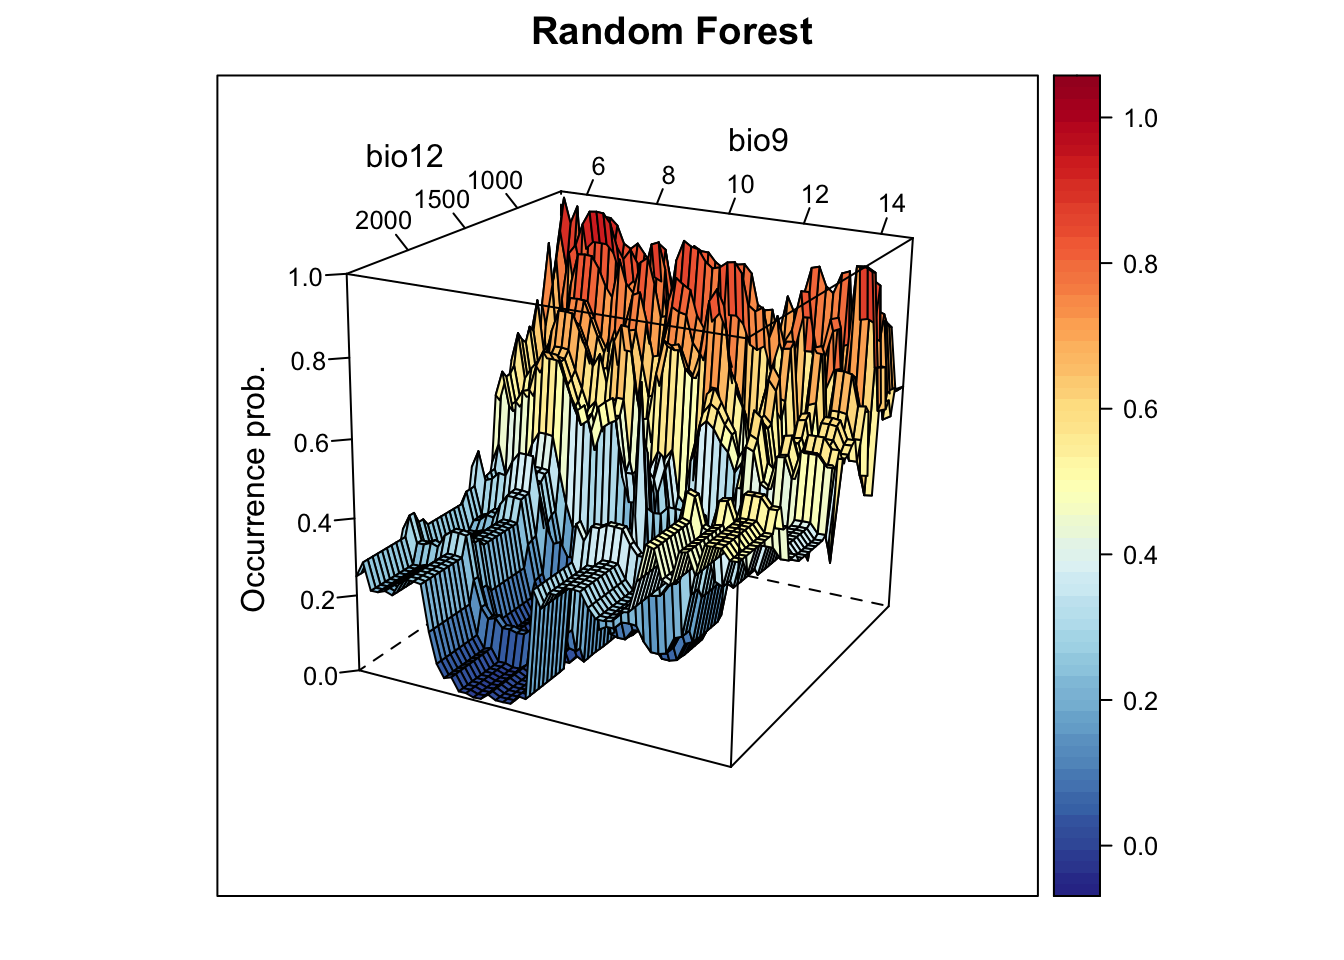
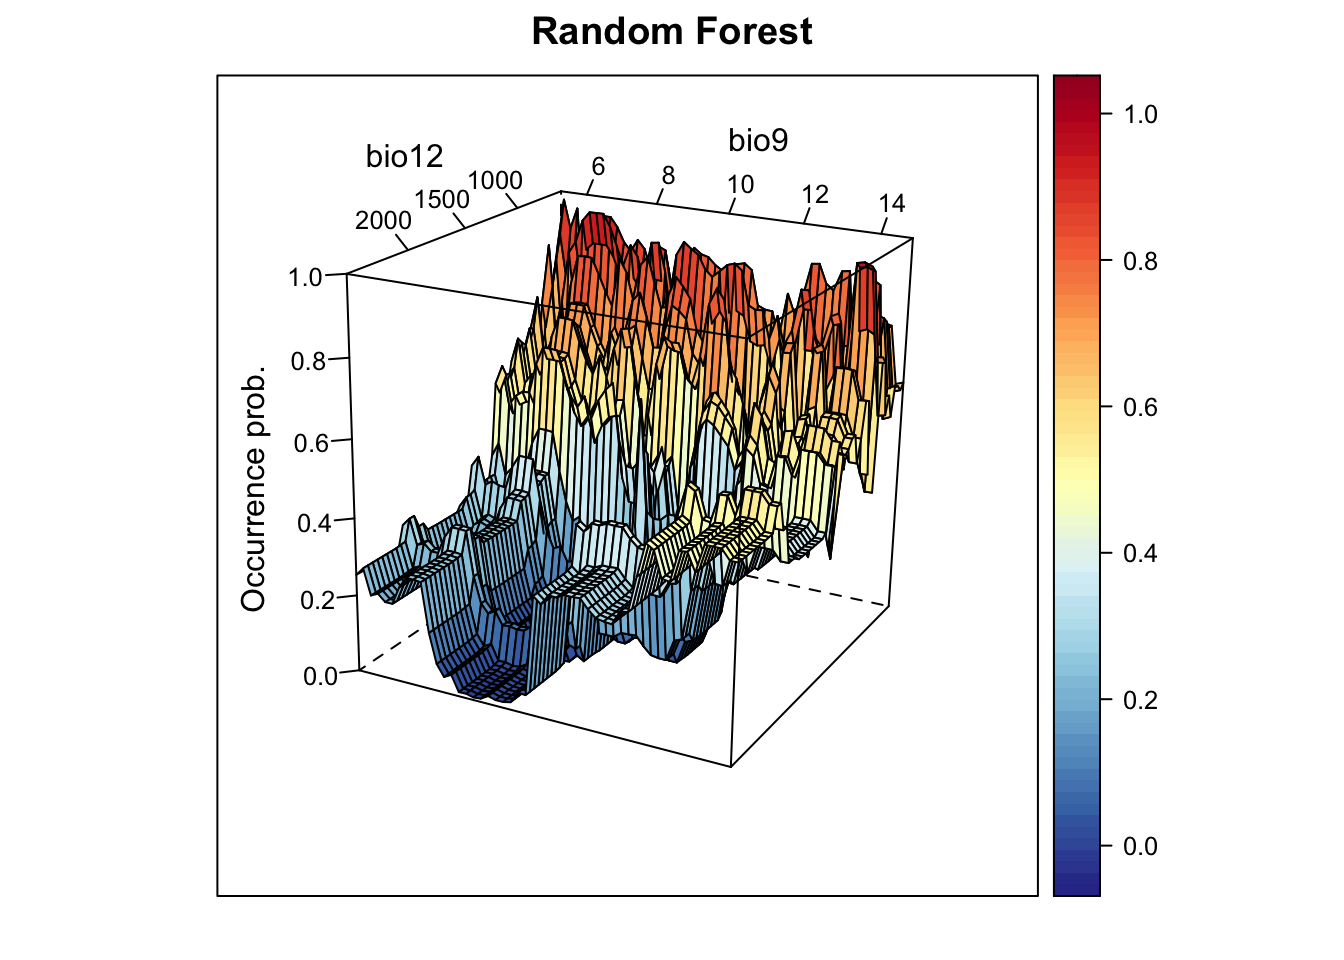
minor update

diff --git a/b6_SDM_algorithms.html b/b6_SDM_algorithms.html
@@ -13,7 +13,7 @@
 
 <title>SDM algorithms</title>
 
-<script src="site_libs/header-attrs-2.17/header-attrs.js"></script>
+<script src="site_libs/header-attrs-2.19/header-attrs.js"></script>
 <script src="site_libs/jquery-3.6.0/jquery-3.6.0.min.js"></script>
 <meta name="viewport" content="width=device-width, initial-scale=1" />
 <link href="site_libs/bootstrap-3.3.5/css/bootstrap.min.css" rel="stylesheet" />
@@ -555,7 +555,7 @@ and 1, indicating how similar/close the environmental conditions are to
 the median conditions.</p>
 <pre class="r"><code>library(dismo)
 
-# Fit BIOCLIM model - please note that biolcim() expects a Raster* rather than SpatRaster object
+# Fit BIOCLIM model - please note that bioclim() expects a Raster* rather than SpatRaster object
 m_bc &lt;- dismo::bioclim(stack(bio_curr[[my_preds]]), 
                 sp_train[sp_train$Emberiza_citrinella==1,c(&#39;EASTING&#39;,&#39;NORTHING&#39;)])
 plot(m_bc)</code></pre>
@@ -877,26 +877,26 @@ permutation procedure, which measures for each variable the drop in mean
 accuracy when this variables is permutated.</p>
 <pre class="r"><code>library(randomForest)
 
-# Fit RF
+# Fit RF (a question/warning pops up whether we really want to do regression: YES, we want to. With binary data, you could also use classification by setting the argument y=as.factor(sp_train$Emberiza_citrinella) but from experience regression produces slightly better results)
 m_rf &lt;- randomForest( x=sp_train[,my_preds], y=sp_train$Emberiza_citrinella, 
     ntree=1000, importance =T)
     
 # Variable importance:
 importance(m_rf,type=1)</code></pre>
 <pre><code>##        %IncMSE
-## bio12 68.05580
-## bio9  15.55716</code></pre>
+## bio12 68.94642
+## bio9  14.02256</code></pre>
 <pre class="r"><code>varImpPlot(m_rf)</code></pre>
 <p><img src="b6_SDM_algorithms_files/figure-html/unnamed-chunk-15-1.png" width="672" /></p>
 <pre class="r"><code># Look at single trees:
 head(getTree(m_rf,1,T))</code></pre>
 <pre><code>##   left daughter right daughter split var split point status prediction
-## 1             2              3      bio9    7.045709     -3  0.5592417
-## 2             4              5     bio12  752.727325     -3  0.8833333
-## 3             6              7     bio12 1071.290039     -3  0.4304636
-## 4             8              9      bio9    6.071526     -3  0.9107143
-## 5             0              0      &lt;NA&gt;    0.000000     -1  0.5000000
-## 6            10             11      bio9   13.934988     -3  0.7837838</code></pre>
+## 1             2              3     bio12 1072.039734     -3 0.55450237
+## 2             4              5     bio12  875.953491     -3 0.80000000
+## 3             6              7      bio9    9.857206     -3 0.16049383
+## 4             8              9     bio12  603.358917     -3 0.85576923
+## 5            10             11      bio9   11.157989     -3 0.57692308
+## 6            12             13     bio12 1259.303528     -3 0.02083333</code></pre>
 <pre class="r"><code># Now, we plot the response surface:
 xyz$z &lt;- predict(m_rf, xyz, type=&#39;response&#39;)
 wireframe(z ~ bio12 + bio9, data = xyz, zlab = list(&quot;Occurrence prob.&quot;, rot=90), 
@@ -910,8 +910,8 @@ partial_response(m_rf, predictors = sp_train[,my_preds], main=&#39;Random Forest
 <p><img src="b6_SDM_algorithms_files/figure-html/unnamed-chunk-15-3.png" width="672" /></p>
 <pre class="r"><code># Performance measures of RF
 (perf_rf &lt;- evalSDM(sp_test$Emberiza_citrinella, predict(m_rf, sp_test[,my_preds],  type=&#39;response&#39;) ))</code></pre>
-<pre><code>##        AUC       TSS     Kappa      Sens      Spec PCC         D2 thresh
-## 1 0.828869 0.6041667 0.6005917 0.8333333 0.7708333 0.8 0.09078249   0.58</code></pre>
+<pre><code>##         AUC       TSS     Kappa      Sens      Spec       PCC        D2 thresh
+## 1 0.8328373 0.6428571 0.6428571 0.8095238 0.8333333 0.8222222 0.1811933   0.63</code></pre>
 <pre class="r"><code># Map predictions:
 r_rf_bin &lt;- r_rf_pred &lt;- terra::rast(cbind(bio_curr_df[,1:2],
                                  predict(m_rf, bio_curr_df,type=&#39;response&#39;)),
@@ -991,16 +991,16 @@ m_brt &lt;- gbm.step(data = sp_train,
 <pre class="r"><code># Variable importance:
 m_brt$contributions</code></pre>
 <pre><code>##         var   rel.inf
-## bio12 bio12 93.311114
-## bio9   bio9  6.688886</code></pre>
+## bio12 bio12 93.208819
+## bio9   bio9  6.791181</code></pre>
 <pre class="r"><code># Interactions (not very meaningful here with only 2 predictors):
 gbm.interactions(m_brt)$interactions</code></pre>
 <pre><code>##       bio12  bio9
-## bio12     0 25.06
+## bio12     0 24.37
 ## bio9      0  0.00</code></pre>
 <pre class="r"><code>gbm.interactions(m_brt)$rank.list</code></pre>
 <pre><code>##   var1.index var1.names var2.index var2.names int.size
-## 1          2       bio9          1      bio12    25.06
+## 1          2       bio9          1      bio12    24.37
 ## 2          3       &lt;NA&gt;          0                0.00</code></pre>
 <pre class="r"><code># dismo provides some build-in functions for plotting response:
 gbm.plot(m_brt, n.plots=2, write.title = FALSE)</code></pre>
@@ -1021,7 +1021,7 @@ partial_response(m_brt, predictors = sp_train[,my_preds], main=&#39;BRT&#39;, yl
 <pre class="r"><code># Performance measures of BRT
 (perf_brt &lt;- evalSDM(sp_test$Emberiza_citrinella, predict.gbm(m_brt, sp_test[,my_preds], n.trees=m_brt$gbm.call$best.trees, type=&#39;response&#39;) ))</code></pre>
 <pre><code>##         AUC       TSS     Kappa      Sens   Spec       PCC        D2 thresh
-## 1 0.8836806 0.7172619 0.7119645 0.9047619 0.8125 0.8555556 0.3459783   0.58</code></pre>
+## 1 0.8836806 0.7172619 0.7119645 0.9047619 0.8125 0.8555556 0.3431624   0.58</code></pre>
 <pre class="r"><code># Map predictions:
 r_brt_bin &lt;- r_brt_pred &lt;- terra::rast(cbind(bio_curr_df[,1:2],
                                   predict.gbm(m_brt, bio_curr_df,
@@ -1145,8 +1145,8 @@ ensembles in the next tutorial.</p>
 ## glm    0.8903770 0.7172619 0.7119645 0.9047619 0.8125000 0.8555556  0.37029784
 ## gam    0.8859127 0.7172619 0.7119645 0.9047619 0.8125000 0.8555556  0.36548148
 ## cart   0.8196925 0.5922619 0.5958084 0.7380952 0.8541667 0.8000000  0.16934395
-## rf     0.8288690 0.6041667 0.6005917 0.8333333 0.7708333 0.8000000  0.09078249
-## brt    0.8836806 0.7172619 0.7119645 0.9047619 0.8125000 0.8555556  0.34597835
+## rf     0.8328373 0.6428571 0.6428571 0.8095238 0.8333333 0.8222222  0.18119327
+## brt    0.8836806 0.7172619 0.7119645 0.9047619 0.8125000 0.8555556  0.34316242
 ## maxent 0.8774802 0.7172619 0.7119645 0.9047619 0.8125000 0.8555556  0.25816707
 ##        thresh
 ## bc      0.175
@@ -1154,7 +1154,7 @@ ensembles in the next tutorial.</p>
 ## glm     0.525
 ## gam     0.530
 ## cart    0.800
-## rf      0.580
+## rf      0.630
 ## brt     0.580
 ## maxent  0.410</code></pre>
 <pre class="r"><code># We add a column containing the names of the algorithm

diff --git a/site_libs/header-attrs-2.19/header-attrs.js b/site_libs/header-attrs-2.19/header-attrs.js
@@ -1,0 +1,12 @@
+// Pandoc 2.9 adds attributes on both header and div. We remove the former (to
+// be compatible with the behavior of Pandoc < 2.8).
+document.addEventListener('DOMContentLoaded', function(e) {
+  var hs = document.querySelectorAll("div.section[class*='level'] > :first-child");
+  var i, h, a;
+  for (i = 0; i < hs.length; i++) {
+    h = hs[i];
+    if (!/^h[1-6]$/i.test(h.tagName)) continue;  // it should be a header h1-h6
+    a = h.attributes;
+    while (a.length > 0) h.removeAttribute(a[0].name);
+  }
+});
